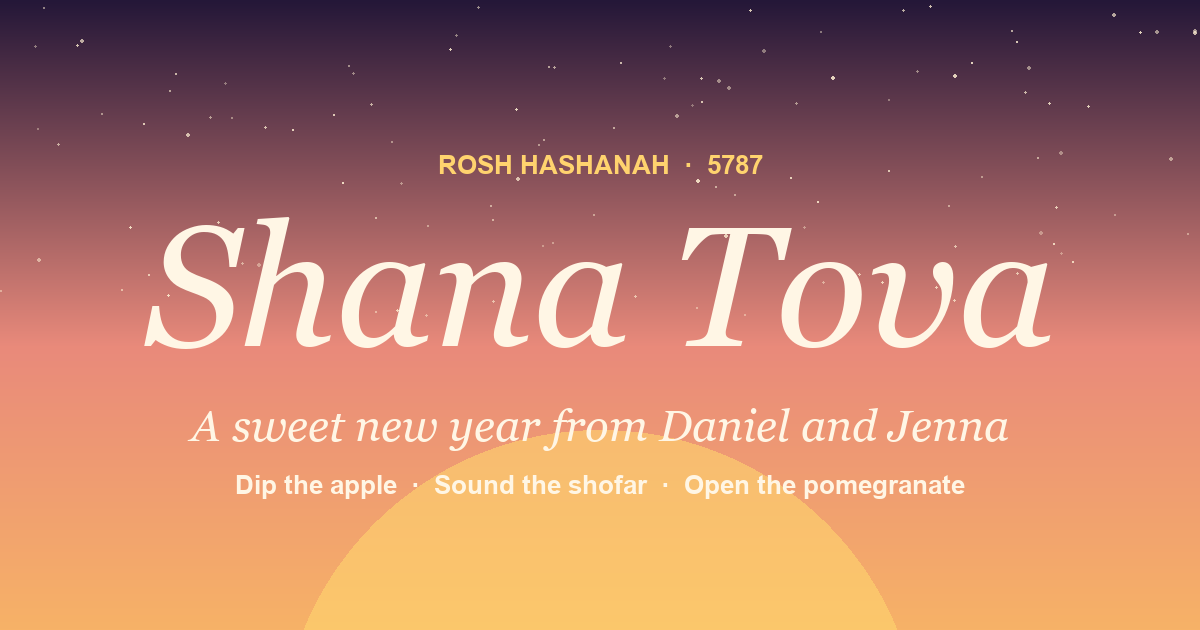
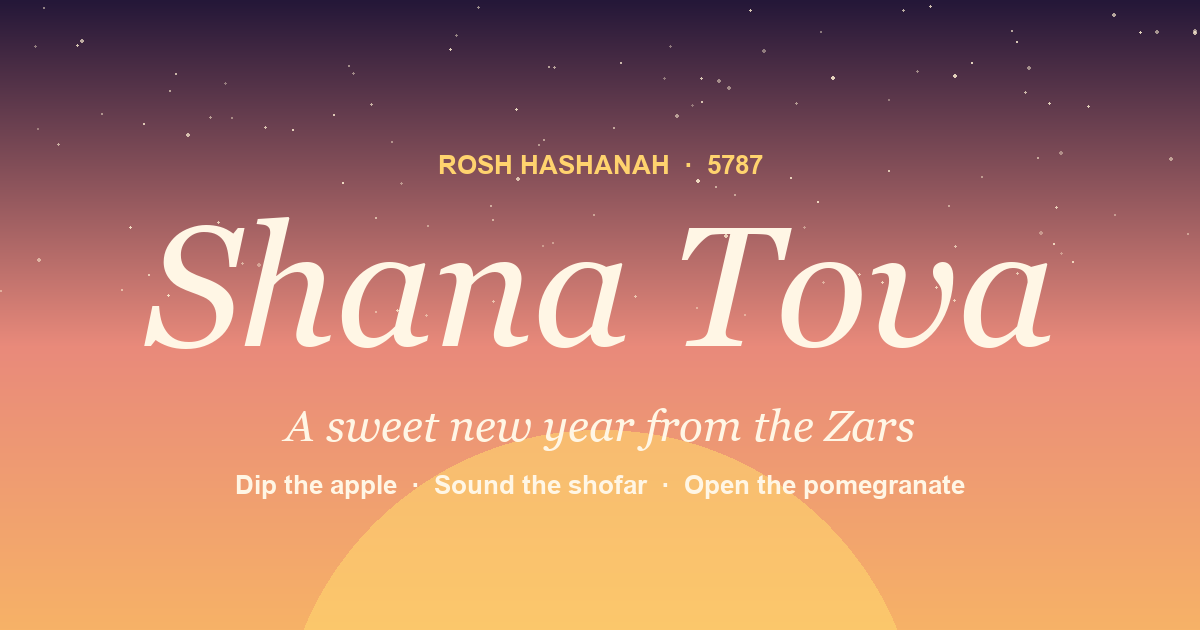
Personal card now from the Zars

Changed region(s): [[0.1542, 0.6333, 0.8633, 0.7238]]

diff --git a/personal/index.html b/personal/index.html
@@ -7,10 +7,10 @@
 <meta name="referrer" content="no-referrer">
 <meta name="robots" content="noindex">
 <meta name="theme-color" content="#241738">
-<meta name="description" content="Dip the apple, sound the shofar, open the pomegranate. A sweet new year from Daniel and Jenna.">
+<meta name="description" content="Dip the apple, sound the shofar, open the pomegranate. A sweet new year from the Zars.">
 <meta property="og:type" content="website">
 <meta property="og:title" content="Shana Tova 5787">
-<meta property="og:description" content="Dip the apple, sound the shofar, open the pomegranate. A sweet new year from Daniel and Jenna.">
+<meta property="og:description" content="Dip the apple, sound the shofar, open the pomegranate. A sweet new year from the Zars.">
 <meta property="og:image" content="https://shanatova.universalrecycling.co.za/og-personal.png">
 <meta property="og:image:width" content="1200">
 <meta property="og:image:height" content="630">
@@ -194,7 +194,7 @@
       <input id="whoami-name" placeholder="Your first name" maxlength="40" aria-label="Your first name">
       <button type="submit">Make it mine</button>
     </form>
-    <p class="lede" id="cover-lede">A sweet new year, with love from Daniel and Jenna.</p>
+    <p class="lede" id="cover-lede">A sweet new year, with love from the Zars.</p>
     <div class="count" id="count" aria-label="Countdown to Rosh Hashanah">
       <div><b id="c-d">–</b><span>days</span></div>
       <div><b id="c-h">–</b><span>hours</span></div>
@@ -272,7 +272,7 @@
     <div class="eyebrow">From the two of us</div>
     <div class="card">
       <p class="blessing">Wishing you and your family a blessed Yom Tov filled with good health, joy, happiness, love, peace and all Hashem's richest blessings.<br><br><strong>Shana Tova U'Metuka. Chag Sameach.</strong></p>
-      <p class="signoff" id="signoff">with love, Daniel and Jenna</p>
+      <p class="signoff" id="signoff">with love, the Zars</p>
     </div>
     <div class="wish" id="wish" hidden><small id="wish-from">A note from</small><span id="wish-text"></span></div>
     
@@ -280,7 +280,7 @@
   </div>
 </section>
 
-<footer><b>שנה טובה ומתוקה</b><br>5787 · with love from Daniel and Jenna</footer>
+<footer><b>שנה טובה ומתוקה</b><br>5787 · with love from the Zars</footer>
 
 <div class="toast" id="toast"><span class="t" id="toast-t"></span><span id="toast-m"></span></div>
 <canvas id="confetti" aria-hidden="true"></canvas>

diff --git a/damelin/index.html b/damelin/index.html
@@ -4,7 +4,7 @@
 <meta name="viewport" content="width=device-width,initial-scale=1">
 <title>Shana Tova, Damelin Family</title>
 <meta property="og:title" content="Shana Tova, Damelin Family">
-<meta property="og:description" content="Dip the apple, sound the shofar, open the pomegranate. A sweet new year from Daniel and Jenna.">
+<meta property="og:description" content="Dip the apple, sound the shofar, open the pomegranate. A sweet new year from the Zars.">
 <meta property="og:image" content="https://shanatova.universalrecycling.co.za/og-personal.png">
 <meta property="og:image:width" content="1200"><meta property="og:image:height" content="630">
 <meta name="robots" content="noindex">

diff --git a/sparks/index.html b/sparks/index.html
@@ -4,7 +4,7 @@
 <meta name="viewport" content="width=device-width,initial-scale=1">
 <title>Shana Tova, Sparks Family</title>
 <meta property="og:title" content="Shana Tova, Sparks Family">
-<meta property="og:description" content="Dip the apple, sound the shofar, open the pomegranate. A sweet new year from Daniel and Jenna.">
+<meta property="og:description" content="Dip the apple, sound the shofar, open the pomegranate. A sweet new year from the Zars.">
 <meta property="og:image" content="https://shanatova.universalrecycling.co.za/og-personal.png">
 <meta property="og:image:width" content="1200"><meta property="og:image:height" content="630">
 <meta name="robots" content="noindex">

diff --git a/fuhr/index.html b/fuhr/index.html
@@ -4,7 +4,7 @@
 <meta name="viewport" content="width=device-width,initial-scale=1">
 <title>Shana Tova, Fuhr Family</title>
 <meta property="og:title" content="Shana Tova, Fuhr Family">
-<meta property="og:description" content="Dip the apple, sound the shofar, open the pomegranate. A sweet new year from Daniel and Jenna.">
+<meta property="og:description" content="Dip the apple, sound the shofar, open the pomegranate. A sweet new year from the Zars.">
 <meta property="og:image" content="https://shanatova.universalrecycling.co.za/og-personal.png">
 <meta property="og:image:width" content="1200"><meta property="og:image:height" content="630">
 <meta name="robots" content="noindex">

diff --git a/zar/index.html b/zar/index.html
@@ -4,7 +4,7 @@
 <meta name="viewport" content="width=device-width,initial-scale=1">
 <title>Shana Tova, Zar Family</title>
 <meta property="og:title" content="Shana Tova, Zar Family">
-<meta property="og:description" content="Dip the apple, sound the shofar, open the pomegranate. A sweet new year from Daniel and Jenna.">
+<meta property="og:description" content="Dip the apple, sound the shofar, open the pomegranate. A sweet new year from the Zars.">
 <meta property="og:image" content="https://shanatova.universalrecycling.co.za/og-personal.png">
 <meta property="og:image:width" content="1200"><meta property="og:image:height" content="630">
 <meta name="robots" content="noindex">
